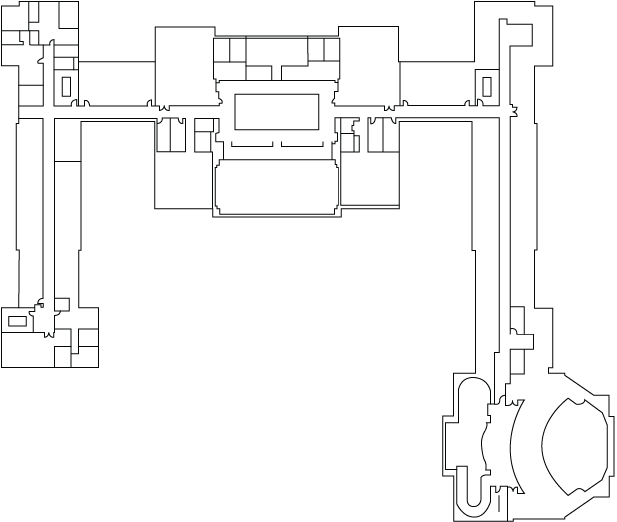
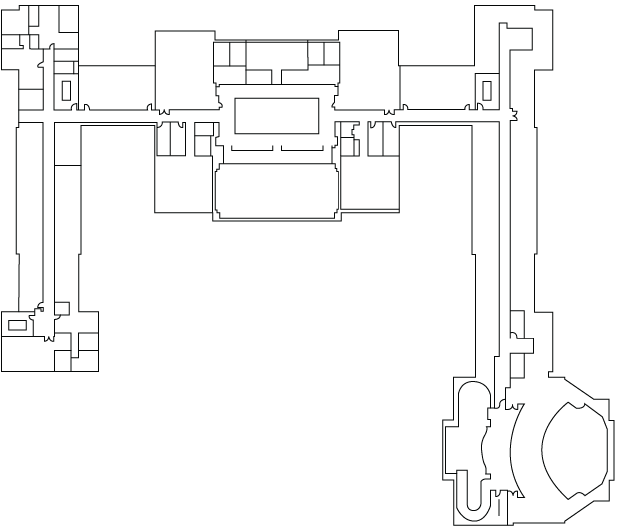
floor 2 with routing

diff --git a/components/Navigation.js b/components/Navigation.js
@@ -6,8 +6,8 @@ import Svg, {Rect,Line,Circle} from 'react-native-svg';
 // png dimensions (floor 1)
 const FLOOR_1_WIDTH = 613;
 const FLOOR_1_HEIGHT = 541;
-const FLOOR_2_WIDTH = 0;
-const FLOOR_2_HEIGHT = 0;
+const FLOOR_2_WIDTH = 617;
+const FLOOR_2_HEIGHT = 528;
 
 export default class Navigation extends React.Component {
 	constructor() {
@@ -32,15 +32,17 @@ export default class Navigation extends React.Component {
 	/* x: the x coordinate of a cell returned by /route call
 	 * scaleFactor: the amount by which the floorplan image was resized to fit phone screen
 	 */
-	xcoord = (x,scaleFactor) => {
+	xcoord = (x,width,scaleFactor) => {
 		// add 0.5 to x to get the center of the cell (cell indices start at 0)
 		// multiply by 1/57 because the grid is 57 cells wide
-		return String(Math.round(scaleFactor*(x+0.5)*(1/57)*FLOOR_1_WIDTH));
+		// both floorplan grids are 57x51, so it is safe to use this for both floors
+		return String(Math.round(scaleFactor*(x+0.5)*(1/57)*width));
 	}
-	ycoord = (y,scaleFactor) => {
+	ycoord = (y,height,scaleFactor) => {
 		// add 0.5 to y to get the center of the cell (cell indices start at 0)
 		// multiply by 1/51 because the grid is 57 cells wide
-		return String(Math.round(scaleFactor*(y+0.5)*(1/51)*FLOOR_1_HEIGHT));
+		// both floorplan grids are 57x51, so it is safe to use this for both floors
+		return String(Math.round(scaleFactor*(y+0.5)*(1/51)*height));
 	}
 
 	render() {
@@ -56,10 +58,7 @@ export default class Navigation extends React.Component {
 		let IMG_HEIGHT = Dimensions.get('window').width*(floorplan.height/floorplan.width);
 		let IMG_WIDTH = Dimensions.get('window').width;
 		let scale = IMG_HEIGHT / (floorplan.height*1.0);
-		// PROPS:
-		// startingLocation
-		// destination
-		// stairs
+
 		let overlap = {
 			position: 'absolute',
 			top: 0,
@@ -78,8 +77,8 @@ export default class Navigation extends React.Component {
 		// dark blue outer circle marking starting location
 		if(this.state.route.length>0 && this.state.route[0].floor===this.state.floor)  {
 			startOuterBubble = <Circle
-				cx={this.xcoord(this.state.route[0].x,scale)}
-				cy={this.ycoord(this.state.route[0].y,scale)}
+				cx={this.xcoord(this.state.route[0].x,floorplan.width,scale)}
+				cy={this.ycoord(this.state.route[0].y,floorplan.height,scale)}
 				r="3"
 				fill="blue"
 			/>;
@@ -87,8 +86,8 @@ export default class Navigation extends React.Component {
 		// light blue inner circle marking starting location
 		if(this.state.route.length>0 && this.state.route[0].floor===this.state.floor) {
 			startInnerBubble = <Circle
-				cx={this.xcoord(this.state.route[0].x,scale)}
-				cy={this.ycoord(this.state.route[0].y,scale)}
+				cx={this.xcoord(this.state.route[0].x,floorplan.width,scale)}
+				cy={this.ycoord(this.state.route[0].y,floorplan.height,scale)}
 				r="2"
 				fill="lightblue"
 			/>;
@@ -99,8 +98,8 @@ export default class Navigation extends React.Component {
 			this.state.route[this.state.route.length-1].floor===this.state.floor
 		) {
 			endOuterBubble = <Circle
-				cx={this.xcoord(this.state.route[this.state.route.length-1].x,scale)}
-				cy={this.ycoord(this.state.route[this.state.route.length-1].y,scale)}
+				cx={this.xcoord(this.state.route[this.state.route.length-1].x,floorplan.width,scale)}
+				cy={this.ycoord(this.state.route[this.state.route.length-1].y,floorplan.height,scale)}
 				r="5"
 				fill="red"
 			/>;
@@ -111,8 +110,8 @@ export default class Navigation extends React.Component {
 			this.state.route[this.state.route.length-1].floor===this.state.floor
 		) {
 			endInnerBubble = <Circle
-				cx={this.xcoord(this.state.route[this.state.route.length-1].x,scale)}
-				cy={this.ycoord(this.state.route[this.state.route.length-1].y,scale)}
+				cx={this.xcoord(this.state.route[this.state.route.length-1].x,floorplan.width,scale)}
+				cy={this.ycoord(this.state.route[this.state.route.length-1].y,floorplan.height,scale)}
 				r="2"
 				fill="#000000"
 			/>;
@@ -122,12 +121,16 @@ export default class Navigation extends React.Component {
 		// coordinates' floor -- only load if it matches (otherwise first and second
 		// floor portions of route will show on top of each other)
 		let loadRoute = this.state.route.map((pair,i)=>{
-			if(i<this.state.route.length-1) return (
+			if(
+				i<this.state.route.length-1 &&
+				this.state.floor===pair.floor &&
+				pair.floor===this.state.route[i+1].floor // don't connect between floors
+			) return (
 				<Line
-					x1={this.xcoord(pair.x,scale)}
-					y1={this.ycoord(pair.y,scale)}
-					x2={this.xcoord(this.state.route[i+1].x,scale)}
-					y2={this.ycoord(this.state.route[i+1].y,scale)}
+					x1={this.xcoord(pair.x,floorplan.width,scale)}
+					y1={this.ycoord(pair.y,floorplan.height,scale)}
+					x2={this.xcoord(this.state.route[i+1].x,floorplan.width,scale)}
+					y2={this.ycoord(this.state.route[i+1].y,floorplan.height,scale)}
 					strokeWidth="1.5"
 					stroke={this.props.stairs?'blue':'green'}
 				/>
@@ -143,7 +146,7 @@ export default class Navigation extends React.Component {
 			fill="none"
 		/>;
 
-		return(
+		return (
 			<View style={{flex:1}} >
 				<View style={{
 					flex:0.1,
@@ -219,13 +222,12 @@ const floorplans = {
 
 const routes = {
 	'1026': [
-		{floor:2,x:4,y:26},
+		{floor:1,x:4,y:26},
 		{floor:1,x:7,y:26},
 		{floor:1,x:7,y:20},
 		{floor:1,x:7,y:16},
 		{floor:1,x:7,y:13},
-		{floor:1,x:11,y:13},
-		{floor:2,x:14,y:13}
+		{floor:1,x:11,y:13}
 	],
 	'1000': [
 		{floor:1,x:4,y:26},
@@ -252,5 +254,15 @@ const routes = {
 		{floor:1,x:21,y:11},
 		{floor:1,x:25,y:11},
 		{floor:1,x:25,y:10}
+	],
+	'2043': [
+		{floor:1,x:5,y:26},
+		{floor:1,x:7,y:26},
+		{floor:1,x:7,y:12},
+		{floor:2,x:6,y:10},
+		{floor:2,x:6,y:11},
+		{floor:2,x:21,y:11},
+		{floor:2,x:21,y:9},
+		{floor:2,x:25,y:9},
 	]
 }
